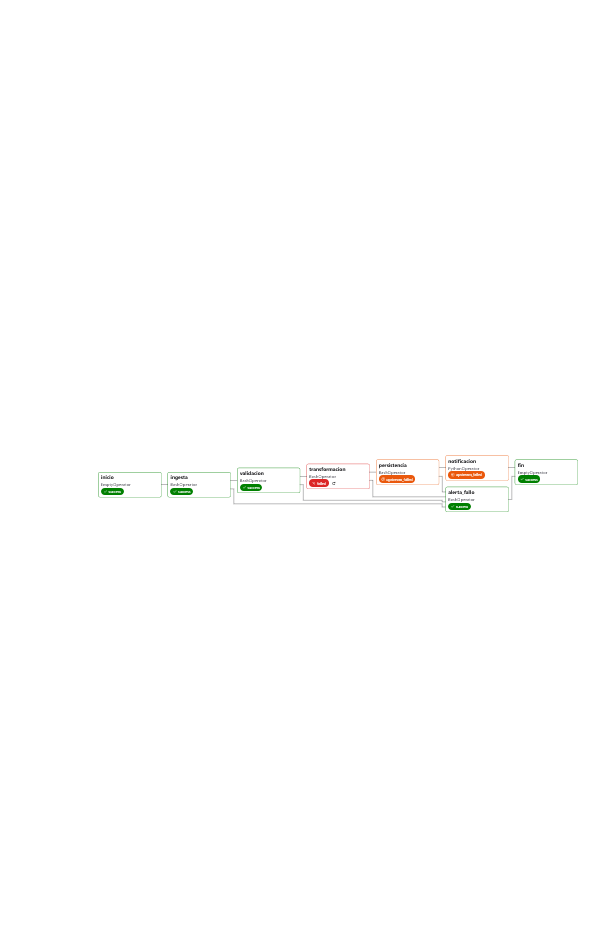
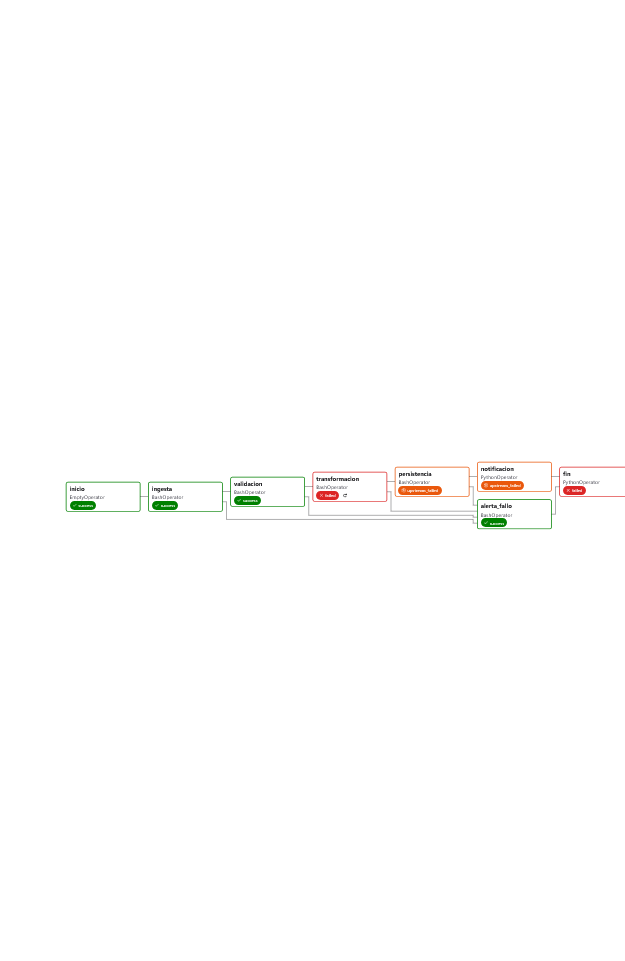
test(dag): forzar fallo de API en transformacion y agregar evidencia visual

Changed region(s): [[0.093, 0.4618, 0.9608, 0.5541]]

diff --git a/airflow/dags/datamarca_dag.py b/airflow/dags/datamarca_dag.py
@@ -5,6 +5,7 @@ from airflow.providers.standard.operators.bash import BashOperator
 from airflow.providers.standard.operators.empty import EmptyOperator
 from airflow.providers.standard.operators.python import PythonOperator
 from airflow.utils.trigger_rule import TriggerRule
+from airflow.exceptions import AirflowException
 
 # 1. CALLBACKS: Logging y auditoría
 def on_failure_callback(context):
@@ -25,6 +26,19 @@ def on_retry_callback(context):
 def notificar_resultado(**context):
     """Notificación final del pipeline."""
     print(f"Pipeline DATAMARCA finalizado. Run ID: {context['run_id']}")
+
+def verificar_estado_final(**context):
+    """Falla intencionalmente si alguna tarea anterior falló, para que el DagRun marque 'failed'."""
+    dag_run = context["dag_run"]
+    tareas_fallidas = [
+        ti.task_id for ti in dag_run.get_task_instances()
+        if ti.state == "failed"
+    ]
+    if tareas_fallidas:
+        raise AirflowException(
+            f"El pipeline falló en las tareas: {', '.join(tareas_fallidas)}"
+        )
+    print("Todas las tareas completaron exitosamente.")
 
 # 2. ARGUMENTOS POR DEFECTO (Retries y Backoff)
 default_args = {
@@ -65,10 +79,10 @@ with DAG(
         bash_command="cd /opt/airflow/datamarca && python -m src.data_quality_report",
     )
 
-    # Etapa 3: Transformaciones
+    # Etapa 3: Transformaciones (Fallo simulado de API externa)
     transformacion = BashOperator(
         task_id="transformacion",
-        bash_command="cd /opt/airflow/datamarca && python -m src.transformations",
+        bash_command="cd /opt/airflow/datamarca && python -c \"raise Exception('Timeout de conexión con la API de validación de fraude')\"",
     )
 
     # Etapa 4: Persistencia (verifica que las tablas se escribieron)
@@ -88,12 +102,15 @@ with DAG(
         task_id="alerta_fallo",
         bash_command='echo "ALERTA: El pipeline falló. Revisar logs."',
         trigger_rule=TriggerRule.ONE_FAILED,
+        retries=0,
     )
 
-    # Cierre: Se ejecuta SIEMPRE (haya fallado o no)
-    fin = EmptyOperator(
+    # Cierre: Se ejecuta SIEMPRE, pero falla si hubo errores aguas arriba
+    fin = PythonOperator(
         task_id="fin",
+        python_callable=verificar_estado_final,
         trigger_rule=TriggerRule.ALL_DONE,
+        retries=0,
     )
 
     # 4. GRAFO DE DEPENDENCIAS
